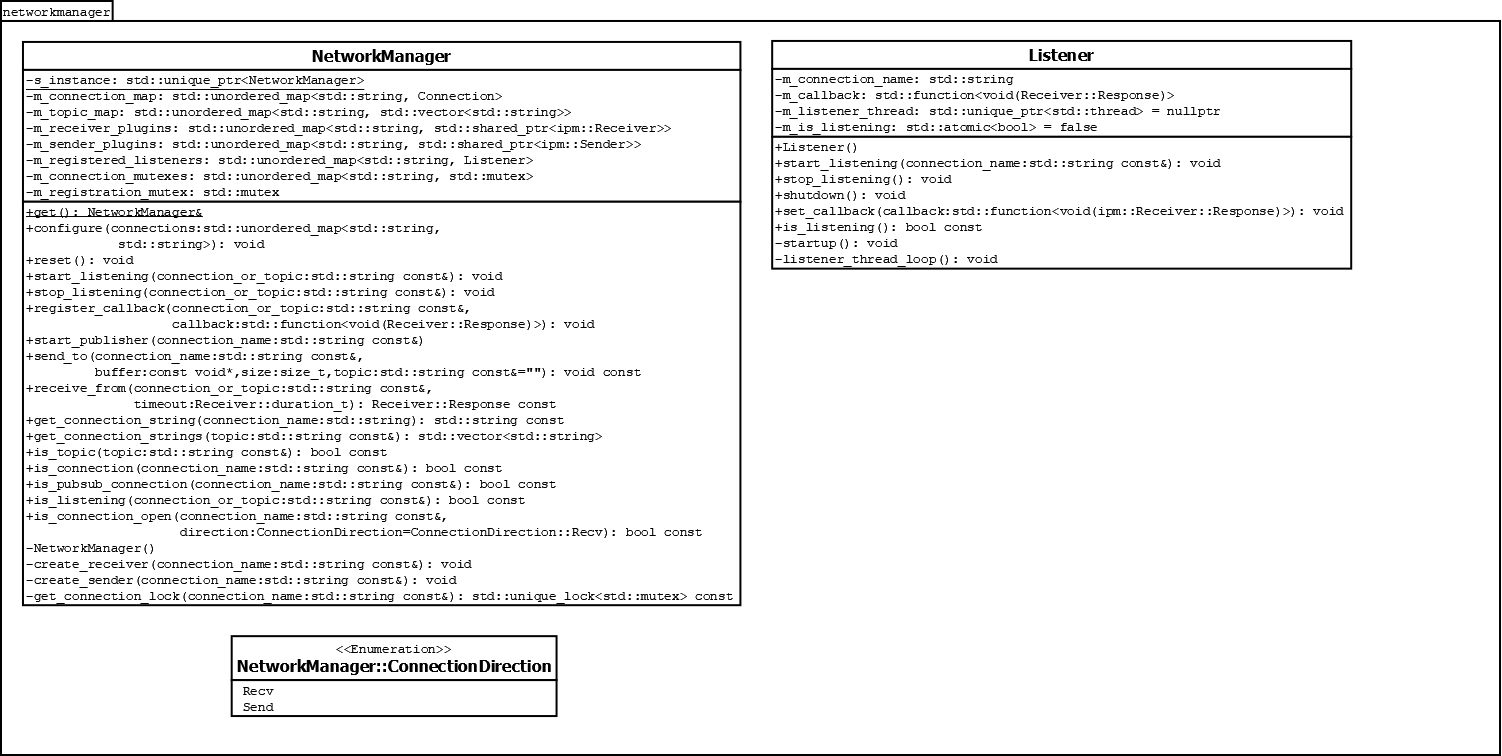
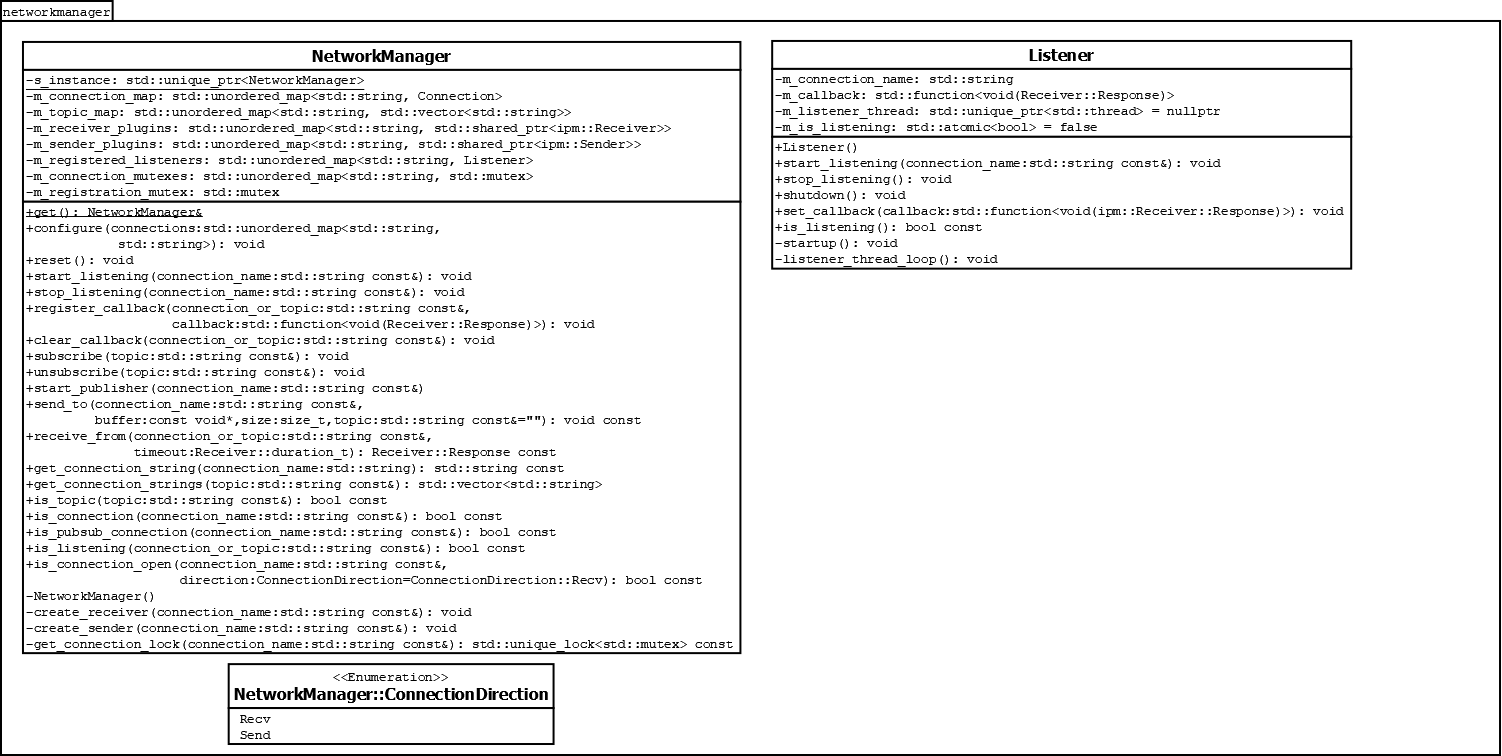
Add explicit subscribe/unsubscribe methods for topics, make start/stop_listening only for connections.

Changed region(s): [[0.0, 0.4259, 0.49, 1.0], [0.1531, 0.3651, 0.3369, 0.3955], [0.4288, 0.6997, 0.4594, 0.7302]]

diff --git a/src/NetworkManager.cpp b/src/NetworkManager.cpp
@@ -78,35 +78,35 @@ NetworkManager::reset()
 }
 
 void
-NetworkManager::start_listening(std::string const& connection_or_topic)
+NetworkManager::start_listening(std::string const& connection_name)
 {
-  TLOG_DEBUG(5) << "Start listening on connection or topic " << connection_or_topic;
+  TLOG_DEBUG(5) << "Start listening on connection " << connection_name;
   std::lock_guard<std::mutex> lk(m_registration_mutex);
-  if (!m_connection_map.count(connection_or_topic) && !m_topic_map.count(connection_or_topic)) {
-    throw ConnectionNotFound(ERS_HERE, connection_or_topic);
+  if (!m_connection_map.count(connection_name)) {
+    throw ConnectionNotFound(ERS_HERE, connection_name);
   }
 
-  if (is_pubsub_connection(connection_or_topic)) {
+  if (is_pubsub_connection(connection_name)) {
     throw OperationFailed(ERS_HERE, "Connection is pub/sub type, call start_listening on desired topic(s) instead!");
   }
 
-  if (is_listening(connection_or_topic)) {
-    throw ListenerAlreadyRegistered(ERS_HERE, connection_or_topic);
+  if (is_listening(connection_name)) {
+    throw ListenerAlreadyRegistered(ERS_HERE, connection_name);
   }
 
-  m_registered_listeners[connection_or_topic].start_listening(connection_or_topic);
+  m_registered_listeners[connection_name].start_listening(connection_name);
 }
 
 void
-NetworkManager::stop_listening(std::string const& connection_or_topic)
+NetworkManager::stop_listening(std::string const& connection_name)
 {
-  TLOG_DEBUG(5) << "Stop listening on connection or topic " << connection_or_topic;
+  TLOG_DEBUG(5) << "Stop listening on connection " << connection_name;
   std::lock_guard<std::mutex> lk(m_registration_mutex);
-  if (!is_listening(connection_or_topic)) {
-    throw ListenerNotRegistered(ERS_HERE, connection_or_topic);
+  if (!is_listening(connection_name)) {
+    throw ListenerNotRegistered(ERS_HERE, connection_name);
   }
 
-  m_registered_listeners[connection_or_topic].stop_listening();
+  m_registered_listeners[connection_name].stop_listening();
 }
 
 void
@@ -128,6 +128,41 @@ NetworkManager::register_callback(std::string const& connection_or_topic,
   }
 
   m_registered_listeners[connection_or_topic].set_callback(callback);
+}
+
+void
+NetworkManager::clear_callback(std::string const& connection_or_topic)
+{
+  TLOG_DEBUG(5) << "Setting callback on " << connection_or_topic << " to null";
+  register_callback(connection_or_topic, nullptr);
+}
+
+void
+NetworkManager::subscribe(std::string const& topic)
+{
+  TLOG_DEBUG(5) << "Start listening on topic " << topic;
+  std::lock_guard<std::mutex> lk(m_registration_mutex);
+  if (!m_topic_map.count(topic)) {
+    throw TopicNotFound(ERS_HERE, topic);
+  }
+
+  if (is_listening(topic)) {
+    throw ListenerAlreadyRegistered(ERS_HERE, topic);
+  }
+
+  m_registered_listeners[topic].start_listening(topic);
+}
+
+void
+NetworkManager::unsubscribe(std::string const& topic)
+{
+  TLOG_DEBUG(5) << "Stop listening on topic " << topic;
+  std::lock_guard<std::mutex> lk(m_registration_mutex);
+  if (!is_listening(topic)) {
+    throw ListenerNotRegistered(ERS_HERE, topic);
+  }
+
+  m_registered_listeners[topic].stop_listening();
 }
 
 void
@@ -172,7 +207,7 @@ NetworkManager::send_to(std::string const& connection_name,
       }
     }
     if (!match) {
-      ers::warning(TopicNotFound(ERS_HERE, topic, connection_name));
+      ers::warning(ConnectionTopicNotFound(ERS_HERE, topic, connection_name));
     }
   }
 
@@ -196,7 +231,7 @@ NetworkManager::receive_from(std::string const& connection_or_topic, ipm::Receiv
   TLOG_DEBUG(9) << "START";
 
   if (!m_connection_map.count(connection_or_topic) && !m_topic_map.count(connection_or_topic)) {
-    throw ConnectionNotFound(ERS_HERE, connection_or_topic);
+      throw ConnectionNotFound(ERS_HERE, connection_or_topic);
   }
 
   if (!m_receiver_plugins.count(connection_or_topic)) {
@@ -231,7 +266,7 @@ std::vector<std::string>
 NetworkManager::get_connection_strings(std::string const& topic) const
 {
   if (!m_topic_map.count(topic)) {
-    throw ConnectionNotFound(ERS_HERE, topic);
+    throw TopicNotFound(ERS_HERE, topic);
   }
 
   std::vector<std::string> output;

diff --git a/include/networkmanager/Issues.hpp b/include/networkmanager/Issues.hpp
@@ -19,7 +19,11 @@ namespace dunedaq {
 ERS_DECLARE_ISSUE(networkmanager, OperationFailed, message, ((std::string)message))
 
 ERS_DECLARE_ISSUE(networkmanager, ConnectionNotFound, "Connection named " << name << " not found", ((std::string)name))
-ERS_DECLARE_ISSUE(networkmanager, TopicNotFound, "Topic named " << name << " not found for connection " << connection, ((std::string)name)((std::string)connection))
+ERS_DECLARE_ISSUE(networkmanager, TopicNotFound, "Topic named " << name << " not found", ((std::string)name))
+ERS_DECLARE_ISSUE(networkmanager,
+                  ConnectionTopicNotFound,
+                  "Topic named " << name << " not found for connection " << connection,
+                  ((std::string)name)((std::string)connection))
 ERS_DECLARE_ISSUE(networkmanager, NameCollision, "Multiple instances of name " << name << " exist", ((std::string)name))
 
 ERS_DECLARE_ISSUE(networkmanager,

diff --git a/include/networkmanager/NetworkManager.hpp b/include/networkmanager/NetworkManager.hpp
@@ -46,9 +46,12 @@ public:
   void reset();
 
   // Receive via callback
-  void start_listening(std::string const& connection_or_topic);
-  void stop_listening(std::string const& connection_or_topic);
+  void start_listening(std::string const& connection_name);
+  void stop_listening(std::string const& connection_name);
   void register_callback(std::string const& connection_or_topic, std::function<void(ipm::Receiver::Response)> callback);
+  void clear_callback(std::string const& connection_or_topic);
+  void subscribe(std::string const& topic);
+  void unsubscribe(std::string const& topic);
 
   // Direct Send/Receive
   void start_publisher(std::string const& connection_name);
